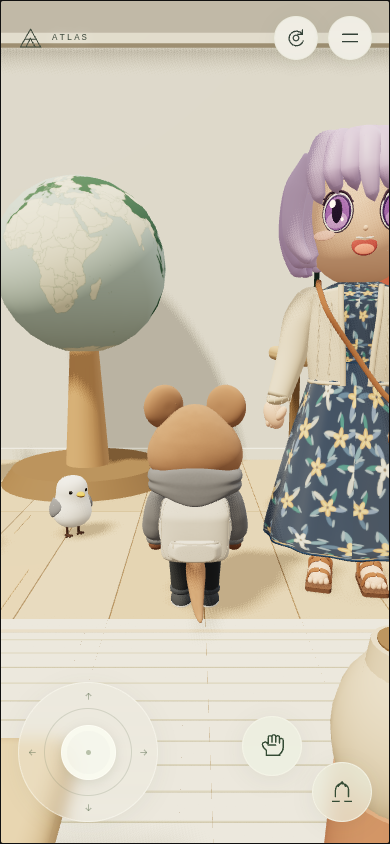
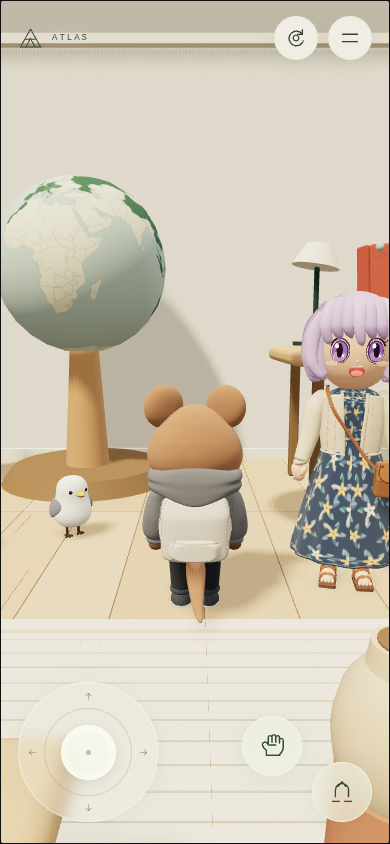
Resize room NPC to two-thirds of its current size

Changed region(s): [[0.6769, 0.154, 1.0, 0.7085]]

diff --git a/src/room/roomScene.ts b/src/room/roomScene.ts
@@ -1017,14 +1017,15 @@ function buildRoomScene(archive: Archive, scope: DisposalScope): RoomScene {
   // 保存位置の検証・小鳥の生成より前に登録し、両者が自然に避けるようにする。
   const visitor = scope.own(createVisitor());
   visitor.group.name = "room-visitor";
-  visitor.group.scale.setScalar(2);
+  visitor.group.scale.setScalar(4 / 3);
   // 拡大した裾と机の間にも、歩いて回り込める間隔を残す。
   visitor.group.position.set(1.85, 0.012, -0.70);
   visitor.group.rotation.y = -0.20;
   scene.add(visitor.group);
   visitor.group.updateWorldMatrix(true, true);
   // 髪・裾・バッグまで含め、待機中のわずかな揺れにも余裕を持たせる。
-  const visitorBounds = new THREE.Box3().setFromObject(visitor.group).expandByScalar(0.036);
+  const visitorBounds = new THREE.Box3().setFromObject(visitor.group)
+    .expandByScalar(0.018 * visitor.group.scale.x);
   const visitorCentre = visitorBounds.getCenter(new THREE.Vector3());
   const visitorSize = visitorBounds.getSize(new THREE.Vector3());
   obstruction("room-visitor", visitorCentre.x, visitorCentre.z,

diff --git a/docs/ROOM_VISITOR.md b/docs/ROOM_VISITOR.md
@@ -6,15 +6,15 @@
 
 薄紫の丸いボブと分かれた前髪、紫色の大きい目、黄色のリボン、クリーム色の編み物のカーディガン、紺地に黄・白・緑の花柄ワンピース、茶色の斜め掛けバッグとサンダルを表現する。背面にも髪・カーディガン・肩ひも・花柄を持ち、360度見回せる。
 
-部屋では元のモデルを縦・横・奥行きとも2倍に拡大し、全高約2.56m。[四方向の造形（元のモデル）](screenshots/visitor-comparison.png) ／ [部屋・PC](screenshots/visitor-room-desktop.png) ／ [部屋・390px幅](screenshots/visitor-room-mobile.png)。部屋では既存の照明とシャドウマップを共有する。
+部屋では元のモデルを縦・横・奥行きとも4/3倍にし、全高約1.70m。直前の2倍表示から各方向を2/3に縮小したサイズ。[四方向の造形（元のモデル）](screenshots/visitor-comparison.png) ／ [部屋・PC](screenshots/visitor-room-desktop.png) ／ [部屋・390px幅](screenshots/visitor-room-mobile.png)。部屋では既存の照明とシャドウマップを共有する。
 
 現在は床で待機するNPC。呼吸とまばたきを既存の部屋のアニメーションから更新する。歩行・会話・クリックによる機能は追加しない。メニュー中・タブ非表示中は部屋とともに停止し、「動きを減らす」で装飾的な動きを止める。
 
 ## 実装と更新
 
 - `src/room/art/visitor.ts`：形状、素材、待機アニメーション。`createVisitor()` が `group`・`animate(time, reducedMotion)`・`dispose()` を返す。モデルの正面はローカル+Z。
-- `src/room/roomScene.ts`：`room-visitor` の名前で室内の `(1.85, 0.012, -0.70)`、Y軸回転 `-0.20rad`、一様スケール `2` で配置。拡大に合わせて少し手前の右側へ寄せ、机の手前を歩いて回り込める隙間と主人公の初期位置からの通路を残している。
-- 同じ場所で `Box3` により拡大後の髪・裾・バッグを含む可視形状の境界を取り、待機中の微動用に各方向3.6cmの余裕（元モデルの1.8cmも2倍）を加え、床からの衝突体を登録する。サイズや姿勢を変更した場合は、この余裕で動く範囲を包含できるか確認する。
+- `src/room/roomScene.ts`：`room-visitor` の名前で室内の `(1.85, 0.012, -0.70)`、Y軸回転 `-0.20rad`、一様スケール `4 / 3` で配置。机の手前を歩いて回り込める隙間と主人公の初期位置からの通路を残している。
+- 同じ場所で `Box3` により表示サイズに合わせた髪・裾・バッグを含む可視形状の境界を取り、待機中の微動用に元モデルの1.8cmへ表示スケールを掛けた余裕（現在は各方向2.4cm）を加え、床からの衝突体を登録する。サイズや姿勢を変更した場合は、この余裕で動く範囲を包含できるか確認する。
 - 衝突体は既存の保存位置検証と小鳥の生成より前に存在する。追加NPCと重なる古い保存位置は既存処理が安全な初期位置へ戻し、小鳥も同じ障害物一覧からNPCを避ける。保存形式・復元順序は変更しない。
 - 壊せる小物の一覧には登録しない。パンチでも壊れず、「小物を元に戻す」でも位置・形状・衝突体は維持する。
 - 形状・素材・生成テクスチャの解放は既存の `withDisposalScope` で所有し、部屋の破棄に合わせて一度だけ解放する。

diff --git a/docs/VALIDATION.md b/docs/VALIDATION.md
@@ -604,3 +604,9 @@ EASY 49音（スラップ34、69.39%）、NORMAL 76音（56、73.68%）、HARD 1
 変更後の専用ブラウザ2件が成功（41.2秒）：衝突・非破壊・小物復元後の衝突、古い保存位置からの復帰。テスト開始位置は新しい配置の正面へ追従させ、停止距離の期待は維持。本番ビルドと `git diff --check` も成功。PC／390px幅の部屋画像を更新し、ページ例外なし。390px幅の初期画角では、拡大したNPCの右側の一部が画面外になる。今回変更していないモデル形状の単体・他モード・楽器のテストは再実行していない。
 
 公開結果：ソース `1c4f76a` の [Actions実行](https://github.com/nagaihimitsu/website/actions/runs/40203186154) は本番ビルドとdeployが成功。2026-10-25 14:39 UTCに、deployログの対象SHA・成功状態・公開先 `https://nagaihimitsu.github.io/website/` を確認した。通常pushの既定どおり選択範囲・Chromium・WebKitのテストステップはskippedで、上記ローカルの関連テスト結果を今回の検証とする。確認環境から公開URLへの直接HTTPアクセスは接続制限により403となるため、公開先の画面そのものは再確認できていない。GitHub Pagesの公開成功と取り違えない。この追記のみのコミットは公開コードを変更しない。
+
+### 追加変更 — 現在のサイズから2/3へ縮小
+
+ユーザーの指定に従い、直前の2倍表示に2/3を掛け、一様スケールを `4 / 3`（全高約1.70m）へ変更。位置・向きは維持し、衝突体は縮小後の形状から算出する。微動用の余裕は原寸の1.8cmへ表示スケールを掛ける式に変更し、現在は各方向2.4cmになる。
+
+本番ビルドと専用ブラウザ2件が成功（43.3秒）。衝突・パンチ・小物復元・重なる保存位置からの復帰の期待は変更していない。実モデルの境界監査で家具との重なりがなく、0〜30秒の待機動作も衝突体内に収まることを確認。PC／390px幅の専用画像とROOM_VISITORを更新し、ページ例外なし。原寸モデル・他モード・楽器のテストは再実行していない。
